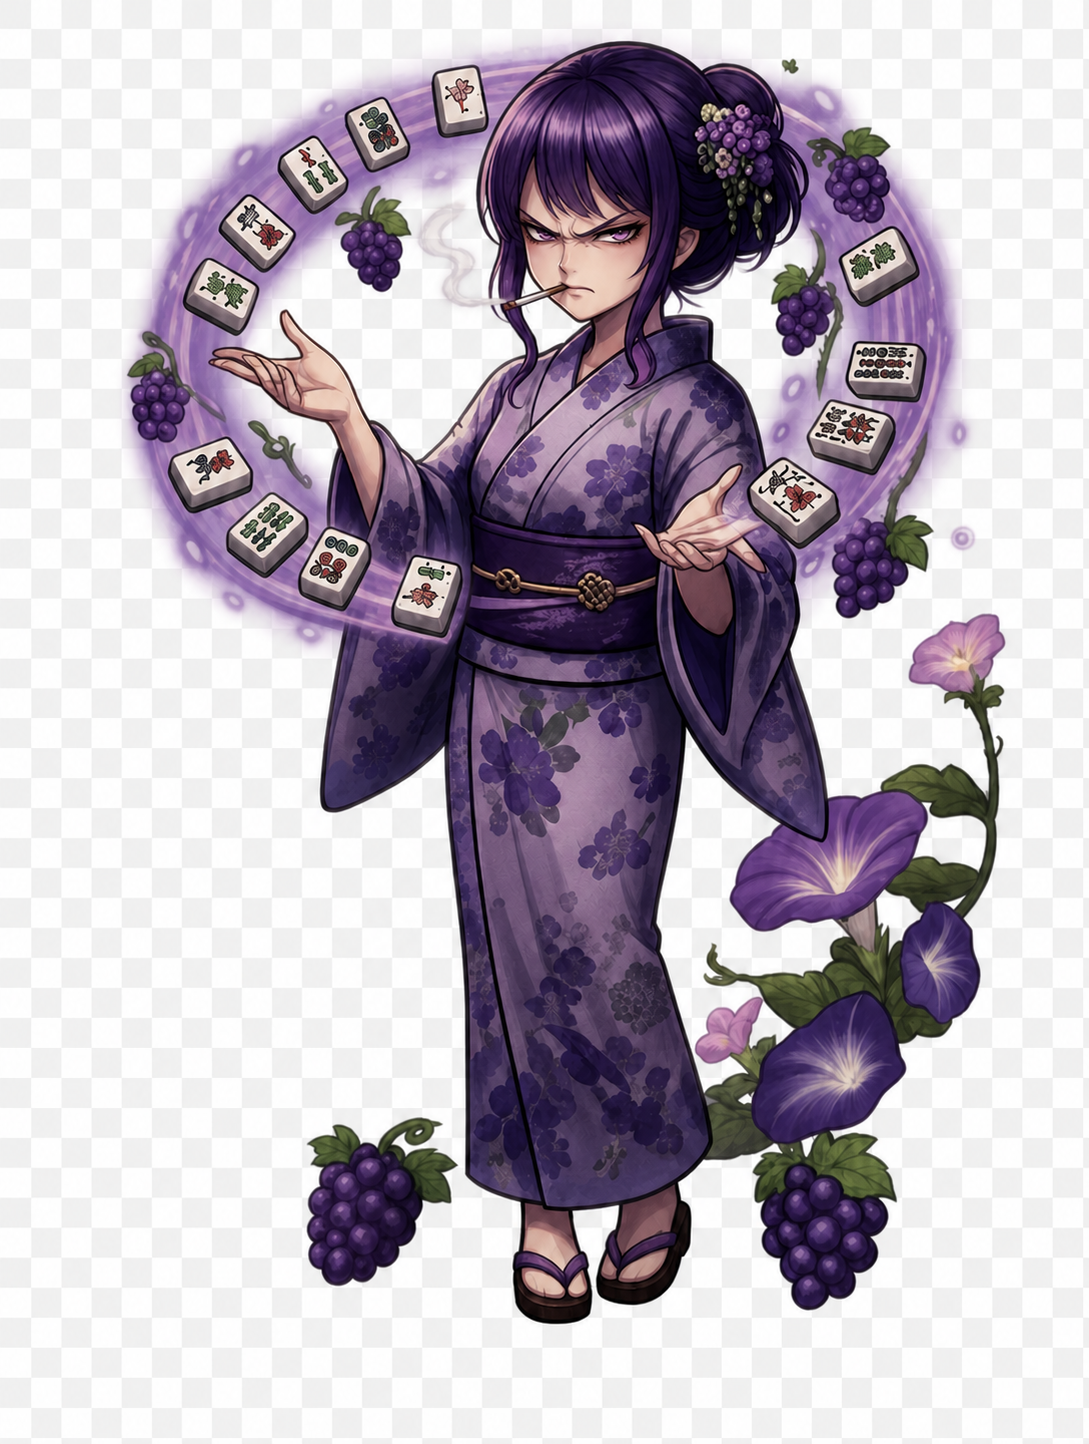
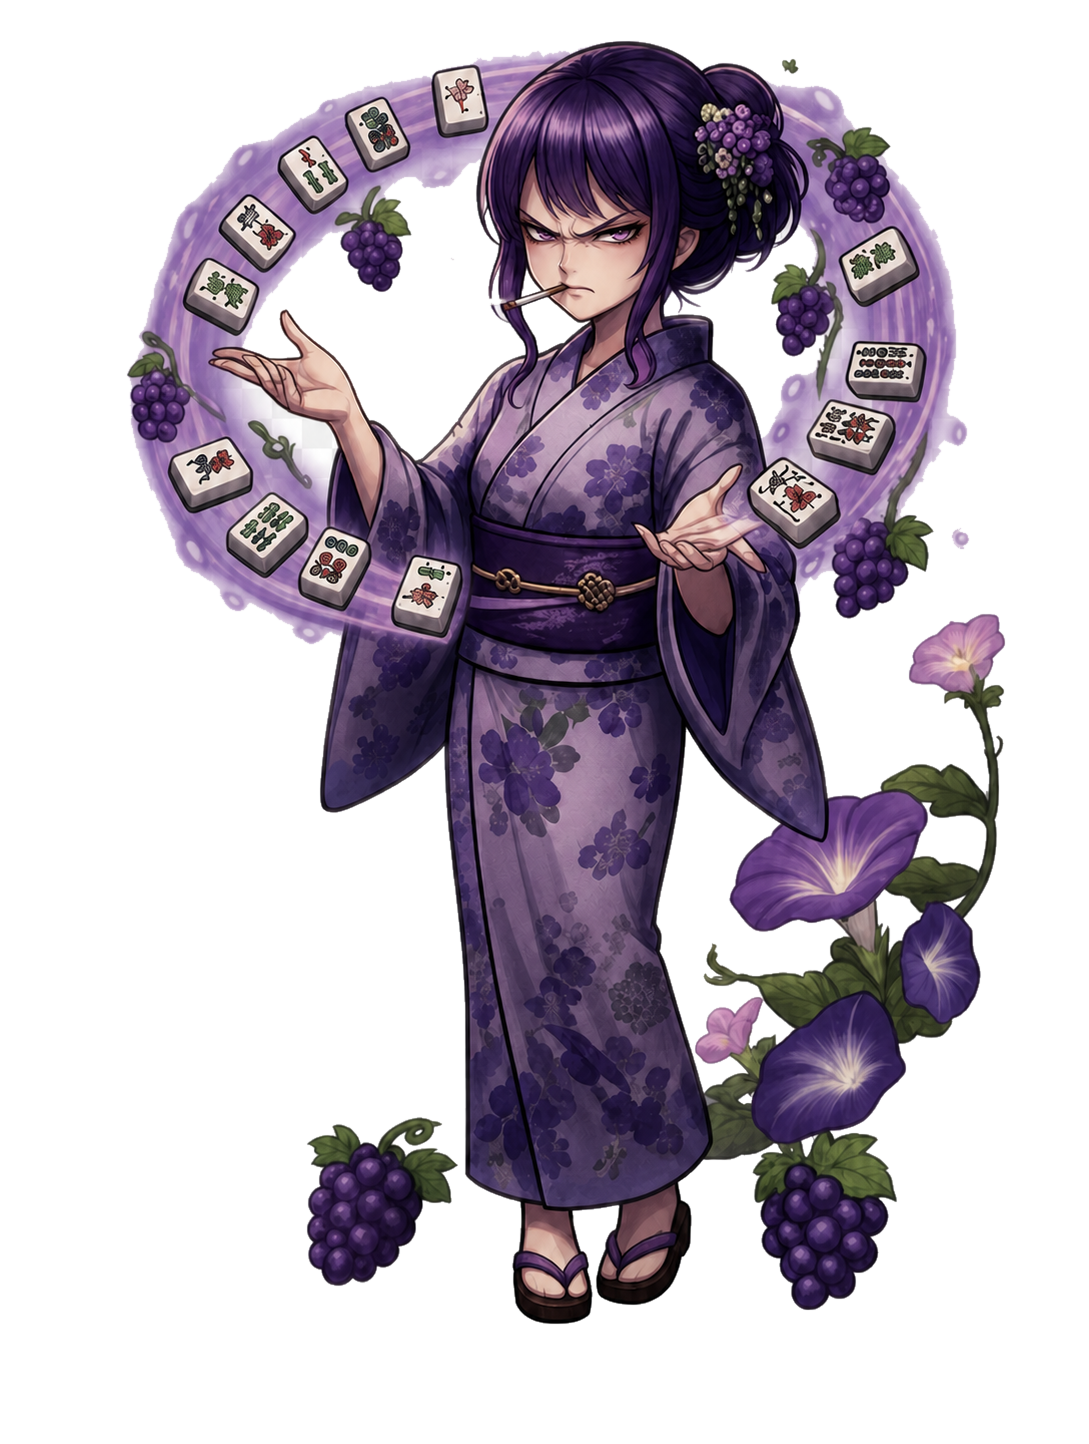
Key out the dark portraits and give them their own tokens
Both new portraits arrived as RGB with the transparency checkerboard
flattened in, so the dialogue overlay would have drawn a grey grid
behind them.

They need more care than the earlier ones: both characters are ringed
by pale mahjong tiles, and a flat lightness threshold eats those along
with the background. Fill from the border instead, then clear an
enclosed pocket only when it is the checkerboard itself — averaging 238
or brighter and near-neutral. Darkening dropped the tile faces to
214-221, so they sit clearly below that line and survive intact.

The board pieces still pointed at the bright originals, so stage 11
showed the dark pair in conversation and their untouched selves on the
board. Cut tokens from the keyed portraits the same way as Thirty's —
crop to the silhouette, centre on a square canvas, 256px — and point
NPC_TOKEN_URL at them.

Also resync CLAUDE.md's cache version, which had drifted to v117 while
sw.js was on v118.

diff --git a/src/npcArt.js b/src/npcArt.js
@@ -39,8 +39,8 @@ export const NPC_TOKEN_URL = {
   '専門調査官・A': assetUrl('/images/npc-tokens/wonderland-girl.png'),
   'ムール': assetUrl('/images/npc-tokens/muuru.png'),
   '邪神ヒトデマソ': assetUrl('/images/npc-tokens/hitodemaso.png'),
-  '闇・ホフク': assetUrl('/images/npc-tokens/hofuku.png'),
-  '暗・少女A': assetUrl('/images/npc-tokens/wonderland-girl.png'),
+  '闇・ホフク': assetUrl('/images/npc-tokens/dark-hofuku.png'),
+  '暗・少女A': assetUrl('/images/npc-tokens/dark-shoujo-a.png'),
   サーティー: assetUrl('/images/npc-tokens/thirty.png'),
   'ウサギン': assetUrl('/images/npc-tokens/usagin.webp'),
   'ヒトデ': assetUrl('/images/npc-tokens/hitode.webp'),

diff --git a/public/sw.js b/public/sw.js
@@ -1,4 +1,4 @@
-const CACHE_NAME = 'chinuquest2-v118';
+const CACHE_NAME = 'chinuquest2-v119';
 const APP_SHELL = ['./', './manifest.webmanifest', './icons/danballman-icon-192.png', './icons/danballman-icon-512.png'];
 
 self.addEventListener('install', (event) => {
